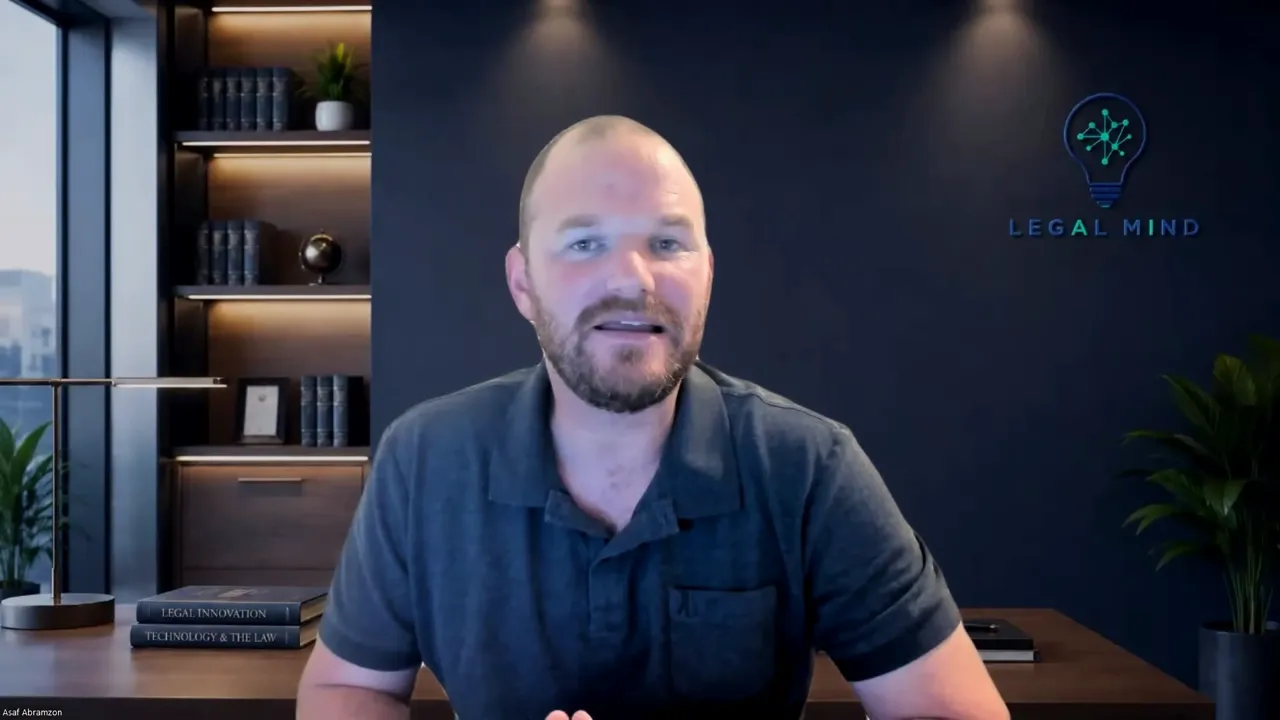
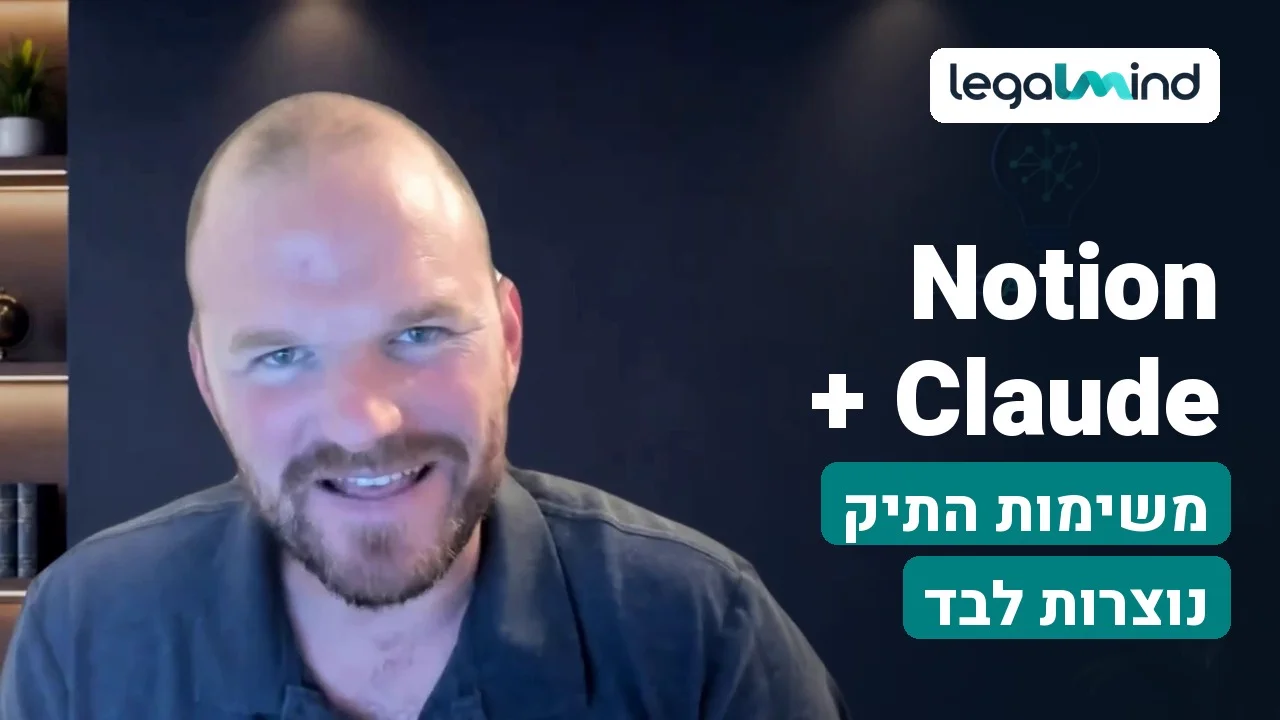
videos: series opener second (beside Notion), new Notion cover (Asaf large, Notion + Claude)

diff --git a/videos/index.html b/videos/index.html
@@ -209,7 +209,7 @@
 
   <div class="vcard">
     <button class="film" type="button" data-src="claude-notion.mp4?v=2110" aria-label="ניגון הסרטון: Claude ו-Notion">
-      <img src="claude-notion-cover.webp?v=2110" alt="" width="1280" height="720">
+      <img src="claude-notion-cover.webp?v=2210" alt="" width="1280" height="720">
       <span class="film-play" aria-hidden="true"><svg viewBox="0 0 24 24"><path d="M7 4.5v15l12.5-7.5z"/></svg></span>
       <span class="film-time" aria-hidden="true">6:24</span>
     </button>
@@ -217,6 +217,17 @@
     <h2><bdi dir="ltr">Claude</bdi> ו-<bdi dir="ltr">Notion</bdi>: משימות התיק נפתחות לבד</h2>
     <p><bdi>Claude</bdi> קורא את חומרי התיק, מסכם מה חסר ופותח ב-<bdi dir="ltr">Notion</bdi> רשימת משימות לתיק, עם סימון לכל משימה שבוצעה.</p>
     <span class="vcard-guest">מציג: עו"ד אסף אברמזון</span><span class="vcard-note">כ-6 דקות</span>
+  </div>
+  <div class="vcard">
+    <button class="film" type="button" data-yt="NPUtjXrteL8" aria-label="ניגון הסרטון: ברוכים הבאים לסדרה">
+      <img src="yt/NPUtjXrteL8.webp" alt="" width="960" height="540" loading="lazy">
+      <span class="film-play" aria-hidden="true"><svg viewBox="0 0 24 24"><path d="M7 4.5v15l12.5-7.5z"/></svg></span>
+      <span class="film-time" aria-hidden="true">2:11</span>
+    </button>
+    <div class="vcard-kind">סדרה · <bdi dir="ltr">Legal Mind</bdi> × נבו</div>
+    <h2>ברוכים הבאים לסדרה: בינה מלאכותית במשרד עורכי הדין</h2>
+    <p>איך עובדים עם בינה מלאכותית כעוזר משפטי אישי, שמכיר את שיטת העבודה שלכם ומחובר ישירות לפסיקה ולחקיקה.</p>
+    <span class="vcard-guest">מציגים: עו"ד אסף אברמזון ועו"ד רועי נימצוביץ'</span><span class="vcard-note">כ-2 דקות</span>
   </div>
 
   <div class="vcard">
@@ -303,17 +314,6 @@
     <span class="vcard-note">כדקה</span>
   </div>
 
-  <div class="vcard">
-    <button class="film" type="button" data-yt="NPUtjXrteL8" aria-label="ניגון הסרטון: ברוכים הבאים לסדרה">
-      <img src="yt/NPUtjXrteL8.webp" alt="" width="960" height="540" loading="lazy">
-      <span class="film-play" aria-hidden="true"><svg viewBox="0 0 24 24"><path d="M7 4.5v15l12.5-7.5z"/></svg></span>
-      <span class="film-time" aria-hidden="true">2:11</span>
-    </button>
-    <div class="vcard-kind">סדרה · <bdi dir="ltr">Legal Mind</bdi> × נבו</div>
-    <h2>ברוכים הבאים לסדרה: בינה מלאכותית במשרד עורכי הדין</h2>
-    <p>איך עובדים עם בינה מלאכותית כעוזר משפטי אישי, שמכיר את שיטת העבודה שלכם ומחובר ישירות לפסיקה ולחקיקה.</p>
-    <span class="vcard-guest">מציגים: עו"ד אסף אברמזון ועו"ד רועי נימצוביץ'</span><span class="vcard-note">כ-2 דקות</span>
-  </div>
 
   <div class="vcard">
     <button class="film" type="button" data-yt="Nrw-VDloxgI" aria-label="ניגון הסרטון: חובה לחתום על DPA">
